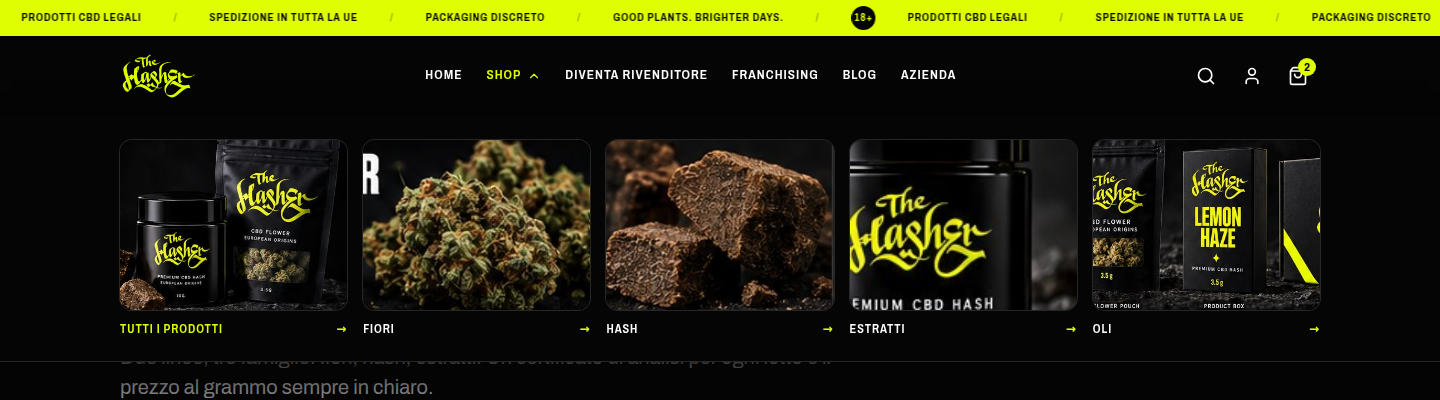
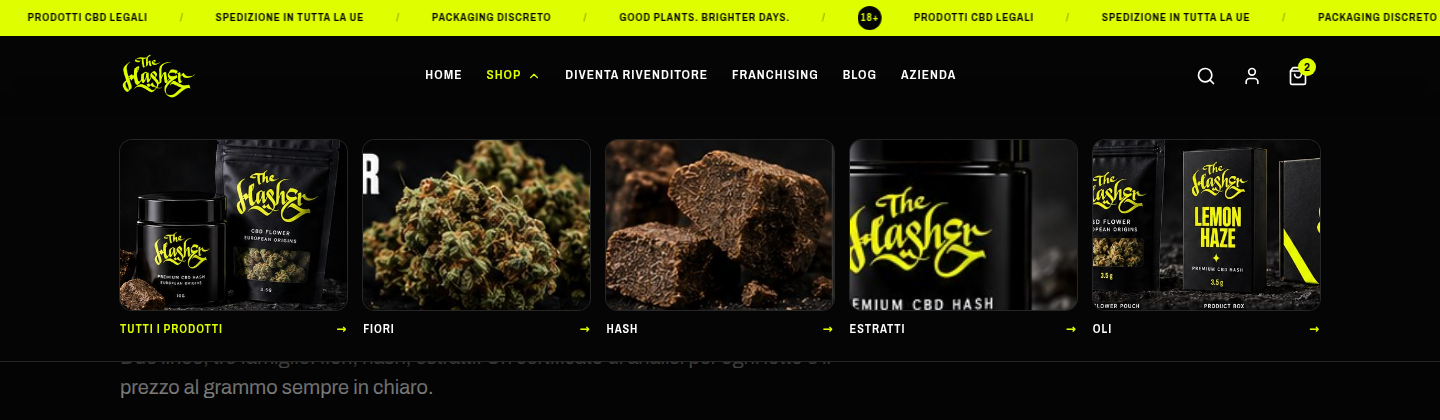
Menu Shop desktop: si chiude con un clic, cliccando fuori o con Esc
- «Shop» diventa un tasto che apre e chiude il menu (anche da tastiera)
- Col mouse si apre ancora passandoci sopra; al tocco solo col clic
- Si chiude cliccando fuori, con Esc, scegliendo una voce o spostando il focus
- Sistemata la formattazione di PROGRESS.md

Claude-Session: https://claude.ai/code/session_01PPPZbsQhydRMweje4EtK5n

diff --git a/src/components/layout/Header.tsx b/src/components/layout/Header.tsx
@@ -1,5 +1,5 @@
 import { ChevronDown, Menu, Search, ShoppingBag, User, X } from 'lucide-react'
-import { useEffect, useState } from 'react'
+import { useEffect, useRef, useState } from 'react'
 import { Link, NavLink, useLocation, useNavigate } from 'react-router-dom'
 import { Button } from '@/components/ui/Button'
 import { IconButton } from '@/components/ui/IconButton'
@@ -32,6 +32,9 @@ export function Header() {
   const [open, setOpen] = useState(false)
   /** Sottomenu aperto nel menu mobile (label della voce) */
   const [sotto, setSotto] = useState<string | null>(null)
+  /** Menu a tendina aperto su desktop (label della voce) */
+  const [tendina, setTendina] = useState<string | null>(null)
+  const tendinaRef = useRef<HTMLDivElement>(null)
   const cart = useCart()
   const attiva = useVoceAttiva()
   const navigate = useNavigate()
@@ -42,6 +45,27 @@ export function Header() {
       document.body.style.overflow = ''
     }
   }, [open])
+
+  // La tendina desktop si chiude cliccando fuori, con Esc o portando il focus altrove.
+  useEffect(() => {
+    if (!tendina) return
+    const fuori = (e: Event) => {
+      if (!tendinaRef.current?.contains(e.target as Node)) setTendina(null)
+    }
+    const esc = (e: KeyboardEvent) => {
+      if (e.key !== 'Escape') return
+      setTendina(null)
+      tendinaRef.current?.querySelector('button')?.focus()
+    }
+    document.addEventListener('pointerdown', fuori)
+    document.addEventListener('focusin', fuori)
+    document.addEventListener('keydown', esc)
+    return () => {
+      document.removeEventListener('pointerdown', fuori)
+      document.removeEventListener('focusin', fuori)
+      document.removeEventListener('keydown', esc)
+    }
+  }, [tendina])
 
   return (
     <>
@@ -74,14 +98,25 @@ export function Header() {
           >
             {site.nav.map((item) =>
               'sotto' in item && item.sotto ? (
-                <div key={item.label} className="group flex items-center self-stretch">
-                  <Link
-                    to={item.to}
-                    aria-current={attiva(item.to) ? 'page' : undefined}
+                <div
+                  key={item.label}
+                  ref={tendina === item.label ? tendinaRef : undefined}
+                  className="flex items-center self-stretch"
+                  // col mouse si apre passandoci sopra; al tocco solo col clic
+                  onPointerEnter={(e) => e.pointerType === 'mouse' && setTendina(item.label)}
+                  onPointerLeave={(e) => e.pointerType === 'mouse' && setTendina(null)}
+                >
+                  <button
+                    type="button"
+                    aria-expanded={tendina === item.label}
+                    aria-controls={`tendina-${item.label}`}
+                    onClick={() => setTendina((v) => (v === item.label ? null : item.label))}
                     className={cn(
                       navLink,
                       'gap-1.5',
-                      attiva(item.to) || item.sotto.some((v) => attiva(v.to))
+                      tendina === item.label ||
+                        attiva(item.to) ||
+                        item.sotto.some((v) => attiva(v.to))
                         ? 'text-primary'
                         : 'text-fg',
                     )}
@@ -89,16 +124,28 @@ export function Header() {
                     {item.label}
                     <ChevronDown
                       aria-hidden="true"
-                      className="size-3.5 transition-transform duration-200 ease-out-soft group-hover:rotate-180"
+                      className={cn(
+                        'size-3.5 transition-transform duration-200 ease-out-soft',
+                        tendina === item.label && 'rotate-180',
+                      )}
                     />
-                  </Link>
-                  <div className="invisible absolute inset-x-0 top-full z-50 border-b border-line bg-bg opacity-0 shadow-2xl shadow-bg transition duration-200 ease-out-soft group-focus-within:visible group-focus-within:opacity-100 group-hover:visible group-hover:opacity-100">
+                  </button>
+                  <div
+                    id={`tendina-${item.label}`}
+                    className={cn(
+                      'absolute inset-x-0 top-full z-50 border-b border-line bg-bg shadow-2xl shadow-bg transition duration-200 ease-out-soft',
+                      tendina === item.label
+                        ? 'visible opacity-100'
+                        : 'pointer-events-none invisible opacity-0',
+                    )}
+                  >
                     <ul className="container-content grid grid-cols-5 gap-4 py-6">
                       {item.sotto.map((v) => (
                         <li key={v.label}>
                           <Link
                             to={v.to}
                             aria-current={attiva(v.to) ? 'page' : undefined}
+                            onClick={() => setTendina(null)}
                             className="group/voce flex flex-col gap-3"
                           >
                             <span className="block aspect-[4/3] overflow-hidden rounded-card ring-1 ring-line transition duration-300 ease-out-soft group-hover/voce:ring-2 group-hover/voce:ring-primary">

diff --git a/design/PROGRESS.md b/design/PROGRESS.md
@@ -15,15 +15,15 @@ Legenda: ⬜ da fare · 🟡 in corso · ✅ fatto
 
 ## Pagine
 
-| Gruppo                                 | Route                                                        | Stato                | Ultima verifica |
-| -------------------------------------- | ------------------------------------------------------------ | -------------------- | --------------- |
-| Home                                   | `/`                                                          | ✅ v2 (tre famiglie) | 2026-09-27      |
+| Gruppo                                 | Route                                                        | Stato                                              | Ultima verifica |
+| -------------------------------------- | ------------------------------------------------------------ | -------------------------------------------------- | --------------- |
+| Home                                   | `/`                                                          | ✅ v2 (tre famiglie)                               | 2026-09-27      |
 | Negozio e prodotto                     | `/negozio`, `/prodotto/:slug`                                | ✅ v3 (barra unica, 4 colonne, scheda in evidenza) | 2026-09-28      |
-| Acquisto                               | `/carrello`, `/checkout`, `/ordine/:numero`                  | ✅ v1                | 2026-09-27      |
-| Area cliente                           | `/accedi`, `/registrati`, `/account`, `/account/*`           | ✅ v1                | 2026-09-27      |
-| Racconto                               | `/azienda`, `/journal`, `/contatti`, `/diventa-distributore` | ✅ v1                | 2026-09-27      |
-| Servizio e legale                      | `/analisi`, `/faq`, `/cerca`, `/preferiti`, 7 pagine legali  | ✅ v1                | 2026-09-27      |
-| Pagine di lavoro (non per il pubblico) | `/stato`, `/prezzi`, `/mappa`, `/styleguide`                 | ✅                   | 2026-09-27      |
+| Acquisto                               | `/carrello`, `/checkout`, `/ordine/:numero`                  | ✅ v1                                              | 2026-09-27      |
+| Area cliente                           | `/accedi`, `/registrati`, `/account`, `/account/*`           | ✅ v1                                              | 2026-09-27      |
+| Racconto                               | `/azienda`, `/journal`, `/contatti`, `/diventa-distributore` | ✅ v1                                              | 2026-09-27      |
+| Servizio e legale                      | `/analisi`, `/faq`, `/cerca`, `/preferiti`, 7 pagine legali  | ✅ v1                                              | 2026-09-27      |
+| Pagine di lavoro (non per il pubblico) | `/stato`, `/prezzi`, `/mappa`, `/styleguide`                 | ✅                                                 | 2026-09-27      |
 
 ## Catalogo
 

diff --git a/design/DECISIONS.md b/design/DECISIONS.md
@@ -107,3 +107,4 @@
 - 2026-09-28 · Griglia negozio a 4 colonne su schermi larghi (3 su portatile, 2 su tablet) con una scheda «In evidenza» alta due righe sulla colonna di destra: prende il primo Limited drop, altrimenti il primo New, e appare solo se ci sono almeno 5 risultati
 - 2026-09-28 · Campo `imageGrande` nel prodotto: la scheda grande usa una foto ad alta risoluzione (per ora pressatura della filiera su Ketama Gold) perché le foto demo sono troppo piccole e sgranavano
 - 2026-09-28 · Menu Shop su desktop orizzontale a tutta larghezza sotto l'header: cinque riquadri con foto (Tutti, Fiori, Hash, Estratti, Oli), sfondo pieno, resta aperto passando col mouse
+- 2026-09-28 · Menu Shop su desktop: col mouse si apre passandoci sopra, ma un clic su «Shop» lo apre e lo chiude; si chiude anche cliccando fuori, con Esc o scegliendo una voce. «Shop» non porta più direttamente al negozio: ci si arriva da «Tutti i prodotti» dentro il menu. Su tablet (tocco) si apre solo col clic
